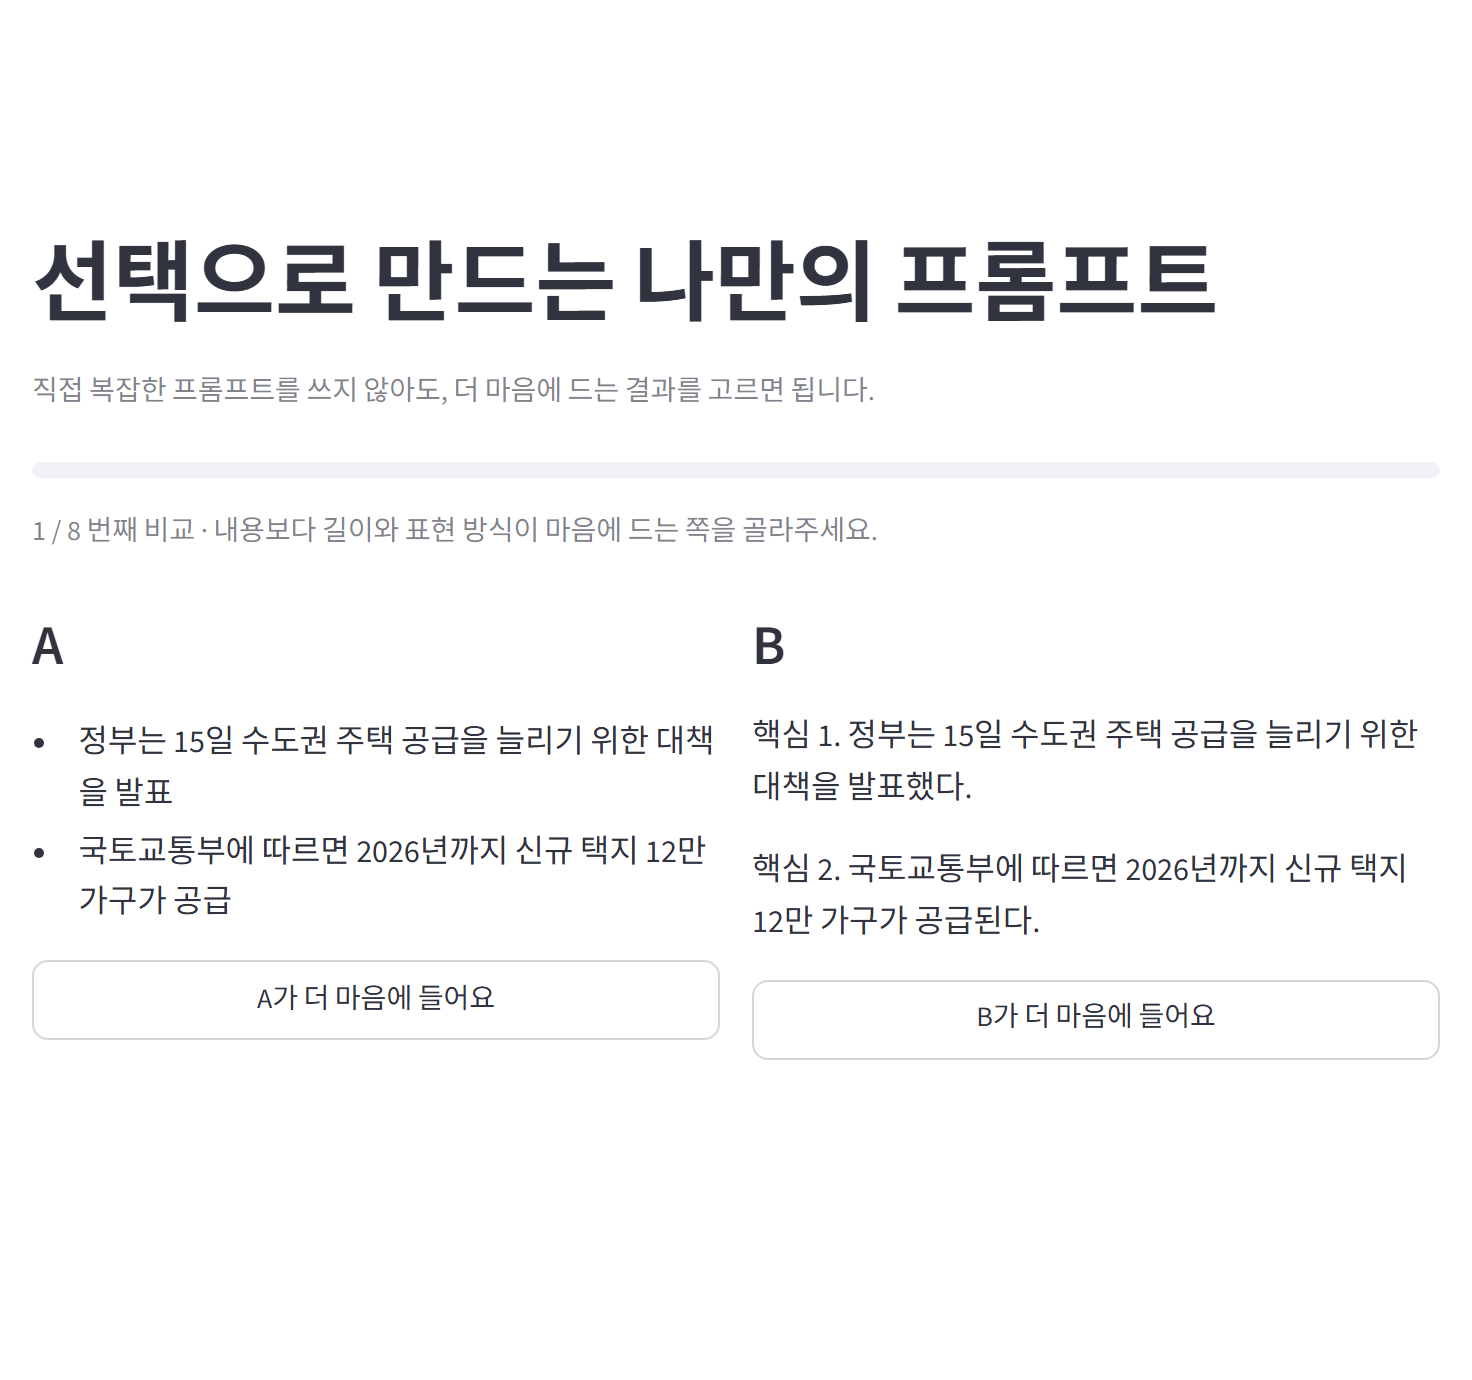
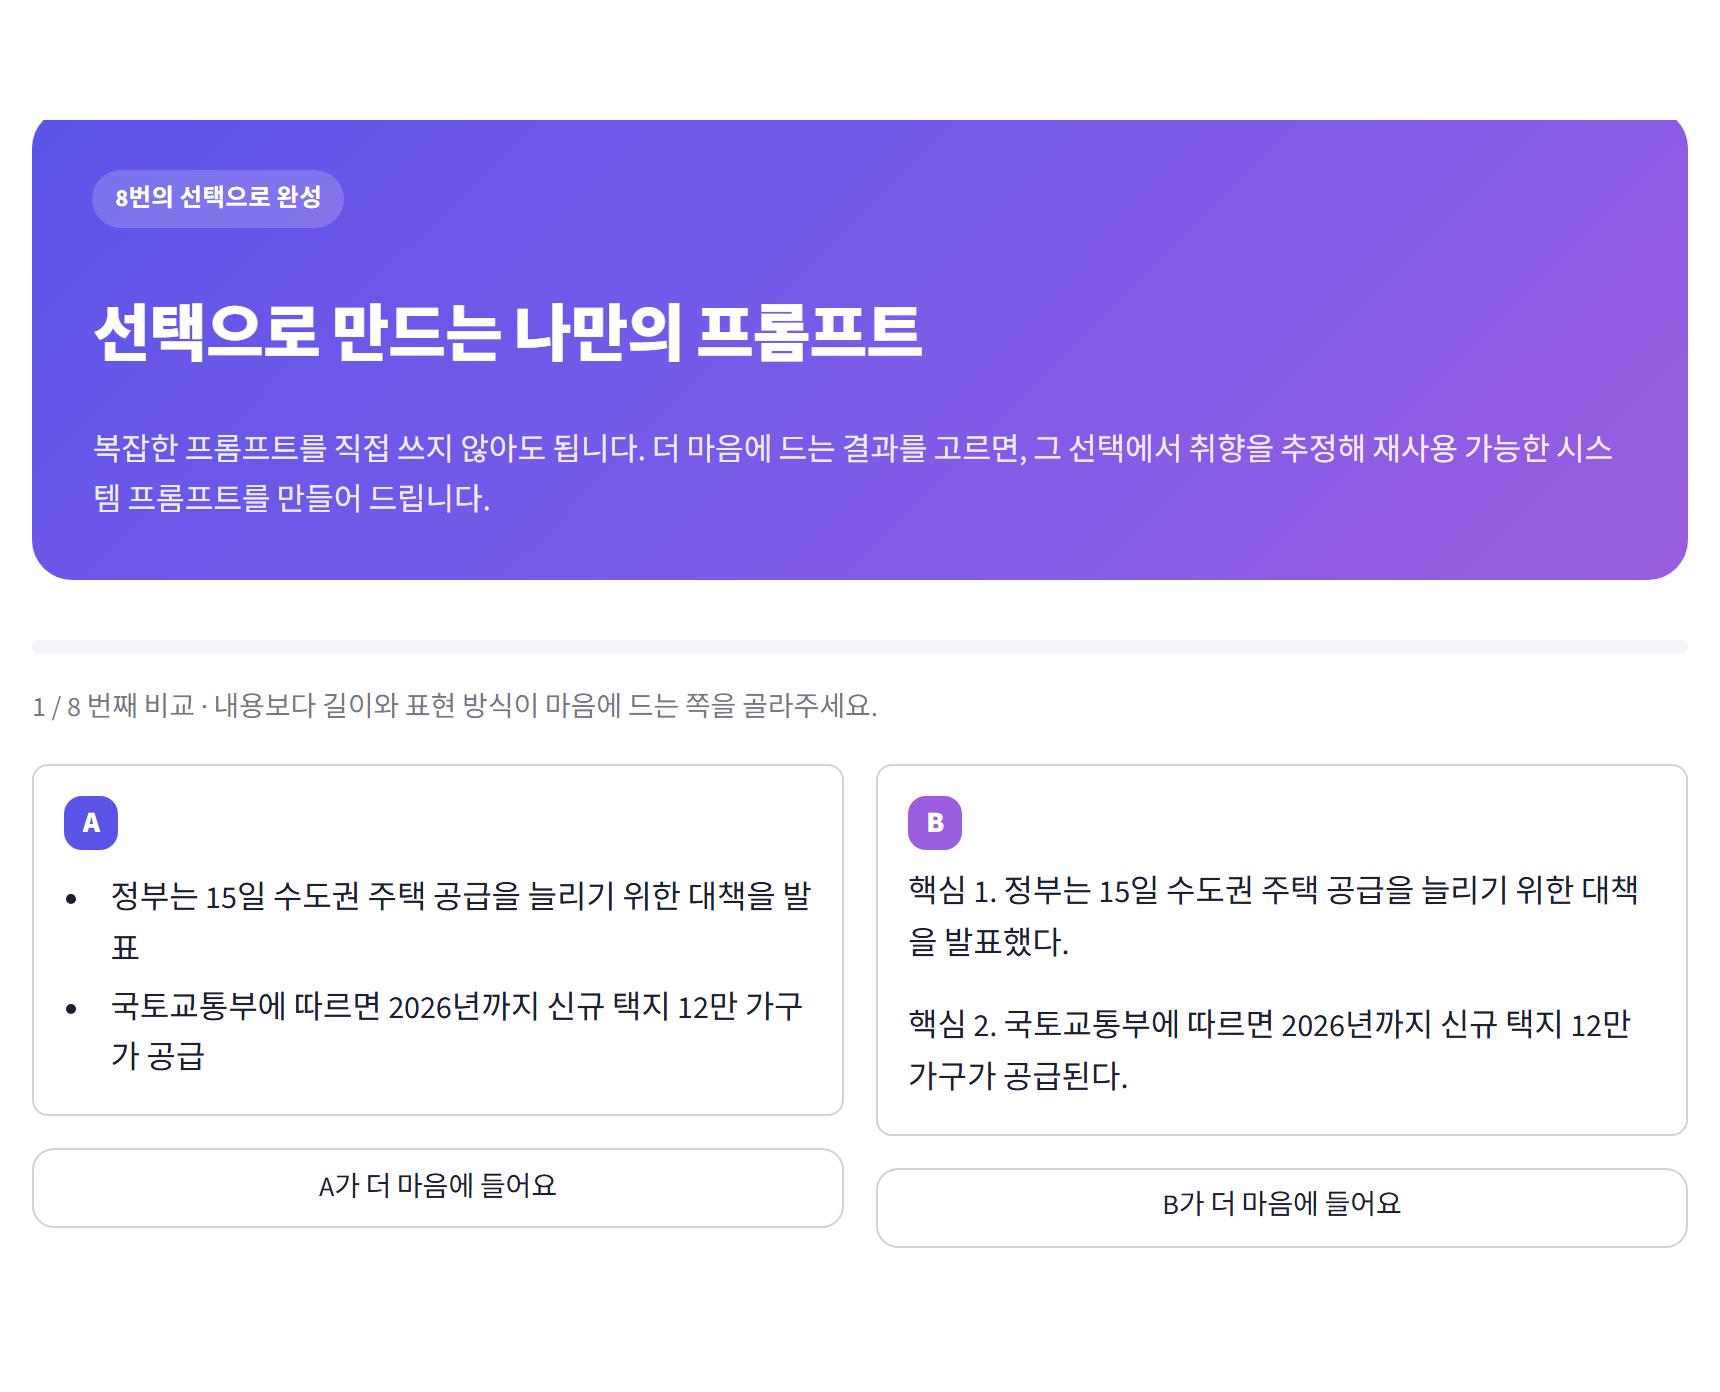
Restyle the app UI for the submission screenshot
The first screen is going on the hackathon submission as the representative
image, and it was default Streamlit: a bare heading, a caption, and stacked
widgets with no visual identity.

Adds a gradient hero, a three-step explainer strip, and bordered cards for the
A/B candidates, plus rounded inputs and a lifted primary button. No new
dependencies: theme colours go in .streamlit/config.toml using only the five
long-standing keys, and the rest is CSS in app.py. Unknown theme keys can warn
or fail at startup, and a dead link during judging is disqualifying, so the
newer theme options were left alone.

Pinning streamlit exactly in the previous commit is what makes the CSS safe to
write against internal test ids; they cannot shift under us mid-judging.

Candidate cards use st.container(border=True) rather than wrapping markup,
because Streamlit widgets do not nest inside injected divs.

Screenshots are regenerated, and 00-hero.png is the new lead image in the
README. It is captured with the source box filled so the primary button shows
enabled; an empty first screen renders it greyed out, which reads as broken.

Theme config also pins local and deployed colours together, so submission
screenshots keep matching the live app.

diff --git a/app.py b/app.py
@@ -181,9 +181,164 @@ def _show_preferences(domain_key: str, preferred: dict[str, str]) -> None:
             continue
         st.markdown(f"- **{labels['title']}**: {labels[value]}")
 
+STYLES = """
+<style>
+/* 본문 폭을 좁혀 읽기 편하게. 기본값은 와이드해서 텍스트가 늘어진다. */
+[data-testid="stMainBlockContainer"] {
+    max-width: 860px;
+    padding-top: 2.4rem;
+    padding-bottom: 4.5rem;
+}
+
+/* --- 히어로 --- */
+.ppt-hero {
+    background: linear-gradient(135deg, #5B54E8 0%, #7C5CE8 55%, #9B5DE0 100%);
+    border-radius: 20px;
+    padding: 1.9rem 1.9rem 1.7rem;
+    margin-bottom: 1.4rem;
+    color: #fff;
+}
+.ppt-hero-badge {
+    display: inline-block;
+    font-size: .76rem;
+    font-weight: 700;
+    letter-spacing: .02em;
+    padding: .3rem .7rem;
+    border-radius: 999px;
+    background: rgba(255, 255, 255, .18);
+    margin-bottom: .85rem;
+}
+.ppt-hero h1 {
+    font-size: 1.95rem;
+    line-height: 1.28;
+    font-weight: 800;
+    margin: 0 0 .55rem;
+    color: #fff;
+    letter-spacing: -.01em;
+}
+.ppt-hero p {
+    margin: 0;
+    font-size: .97rem;
+    line-height: 1.62;
+    color: rgba(255, 255, 255, .9);
+}
+
+/* --- 3단계 설명 --- */
+.ppt-steps {
+    display: grid;
+    grid-template-columns: repeat(3, 1fr);
+    gap: .7rem;
+    margin-bottom: 1.9rem;
+}
+.ppt-step {
+    border: 1px solid rgba(91, 84, 232, .16);
+    background: rgba(91, 84, 232, .04);
+    border-radius: 14px;
+    padding: .85rem .95rem;
+}
+.ppt-step-n {
+    display: inline-flex;
+    align-items: center;
+    justify-content: center;
+    width: 1.35rem;
+    height: 1.35rem;
+    border-radius: 999px;
+    background: #5B54E8;
+    color: #fff;
+    font-size: .72rem;
+    font-weight: 700;
+    margin-bottom: .45rem;
+}
+.ppt-step-t {
+    font-weight: 700;
+    font-size: .89rem;
+    margin-bottom: .2rem;
+}
+.ppt-step-d {
+    font-size: .78rem;
+    line-height: 1.5;
+    opacity: .72;
+}
+
+/* --- 입력 · 버튼 --- */
+.stTextArea textarea {
+    border-radius: 12px !important;
+    font-size: .93rem !important;
+}
+[data-testid="stBaseButton-primary"] {
+    border-radius: 11px;
+    font-weight: 700;
+    padding: .55rem 1.5rem;
+    box-shadow: 0 8px 20px rgba(91, 84, 232, .26);
+    border: none;
+}
+[data-testid="stBaseButton-secondary"] {
+    border-radius: 11px;
+    font-weight: 600;
+}
+
+/* --- A/B 후보 카드 --- */
+[data-testid="stVerticalBlockBorderWrapper"] {
+    border-radius: 16px;
+}
+.ppt-ab {
+    display: inline-flex;
+    align-items: center;
+    justify-content: center;
+    width: 1.7rem;
+    height: 1.7rem;
+    border-radius: 9px;
+    background: #5B54E8;
+    color: #fff;
+    font-weight: 800;
+    font-size: .92rem;
+    margin-bottom: .5rem;
+}
+.ppt-ab-b { background: #9B5DE0; }
+
+/* 진행 막대를 조금 두껍게 */
+[data-testid="stProgress"] div[role="progressbar"] > div { height: .45rem; }
+</style>
+"""
+
+STEPS = (
+    ("1", "주제 선택 &amp; 입력", "요약할 원문이나 만들고 싶은 기능을 적습니다."),
+    ("2", f"A/B 비교 {N_ROUNDS}회", "어느 축이 다른지는 알려주지 않습니다. 마음에 드는 쪽만 고르세요."),
+    ("3", "프롬프트 완성", "추정된 취향을 반영한 시스템 프롬프트를 복사해 갑니다."),
+)
+
+
+def _inject_styles() -> None:
+    st.markdown(STYLES, unsafe_allow_html=True)
+
+
+def _show_hero() -> None:
+    st.markdown(
+        f"""
+        <div class="ppt-hero">
+          <div class="ppt-hero-badge">{N_ROUNDS}번의 선택으로 완성</div>
+          <h1>선택으로 만드는 나만의 프롬프트</h1>
+          <p>복잡한 프롬프트를 직접 쓰지 않아도 됩니다. 더 마음에 드는 결과를
+          고르면, 그 선택에서 취향을 추정해 재사용 가능한 시스템 프롬프트를 만들어 드립니다.</p>
+        </div>
+        """,
+        unsafe_allow_html=True,
+    )
+
+
+def _show_steps() -> None:
+    cards = "".join(
+        f'<div class="ppt-step"><div class="ppt-step-n">{n}</div>'
+        f'<div class="ppt-step-t">{title}</div>'
+        f'<div class="ppt-step-d">{desc}</div></div>'
+        for n, title, desc in STEPS
+    )
+    st.markdown(f'<div class="ppt-steps">{cards}</div>', unsafe_allow_html=True)
+
+
 st.set_page_config(page_title="선호 기반 프롬프트 생성기", page_icon="✨")
-st.title("선택으로 만드는 나만의 프롬프트")
-st.caption("직접 복잡한 프롬프트를 쓰지 않아도, 더 마음에 드는 결과를 고르면 됩니다.")
+_inject_styles()
+_show_hero()
 
 if "stage" not in st.session_state:
     st.session_state.stage = "input"
@@ -199,12 +354,14 @@ if st.session_state.stage != "input" and (
     st.session_state.stage = "input"
 
 if st.session_state.stage == "input":
+    _show_steps()
+
     labels_to_keys = {config["label"]: key for key, config in DOMAIN_OPTIONS.items()}
     selected_label = st.selectbox("무엇을 도와드릴까요?", list(labels_to_keys))
     domain_key = labels_to_keys[selected_label]
     config = DOMAIN_OPTIONS[domain_key]
 
-    st.write(config["intro"])
+    st.caption(config["intro"])
     run_mode = st.radio(
         "실행 모드",
         (API_MODE_LABEL, DEMO_MODE_LABEL),
@@ -227,7 +384,7 @@ if st.session_state.stage == "input":
 
     source = st.text_area(
         config["input_label"],
-        height=180 if domain_key == "coding" else 250,
+        height=140 if domain_key == "coding" else 190,
         placeholder=config["placeholder"],
         max_chars=MAX_SOURCE_CHARS,
     )
@@ -282,12 +439,16 @@ elif st.session_state.stage == "compare":
 
     col_a, col_b = st.columns(2)
     with col_a:
-        st.subheader("A")
-        _show_candidate(domain_key, candidate_a)
+        # border=True 로 실제 카드 컨테이너를 만든다. 내 div로 감싸도
+        # Streamlit 위젯은 그 안에 들어가지 않아서 공개 API를 쓴다.
+        with st.container(border=True):
+            st.markdown('<div class="ppt-ab">A</div>', unsafe_allow_html=True)
+            _show_candidate(domain_key, candidate_a)
         pick_a = st.button("A가 더 마음에 들어요", use_container_width=True)
     with col_b:
-        st.subheader("B")
-        _show_candidate(domain_key, candidate_b)
+        with st.container(border=True):
+            st.markdown('<div class="ppt-ab ppt-ab-b">B</div>', unsafe_allow_html=True)
+            _show_candidate(domain_key, candidate_b)
         pick_b = st.button("B가 더 마음에 들어요", use_container_width=True)
 
     if pick_a or pick_b:

diff --git a/README.md b/README.md
@@ -22,7 +22,7 @@
 API 키 없이도 무료 데모 모드로 전체 흐름을 돌려볼 수 있다. 첫 접속 시
 앱이 절전 상태면 깨우는 데 30초쯤 걸린다.
 
-![카테고리 선택](docs/screenshots/01-categories.png)
+![첫 화면](docs/screenshots/00-hero.png)
 
 카테고리를 고르고 원문을 넣으면, 축 조합이 다른 결과물 두 개가 나온다.
 어느 축이 다른지는 알려주지 않는다 - 사용자는 그냥 마음에 드는 쪽을 고른다.
